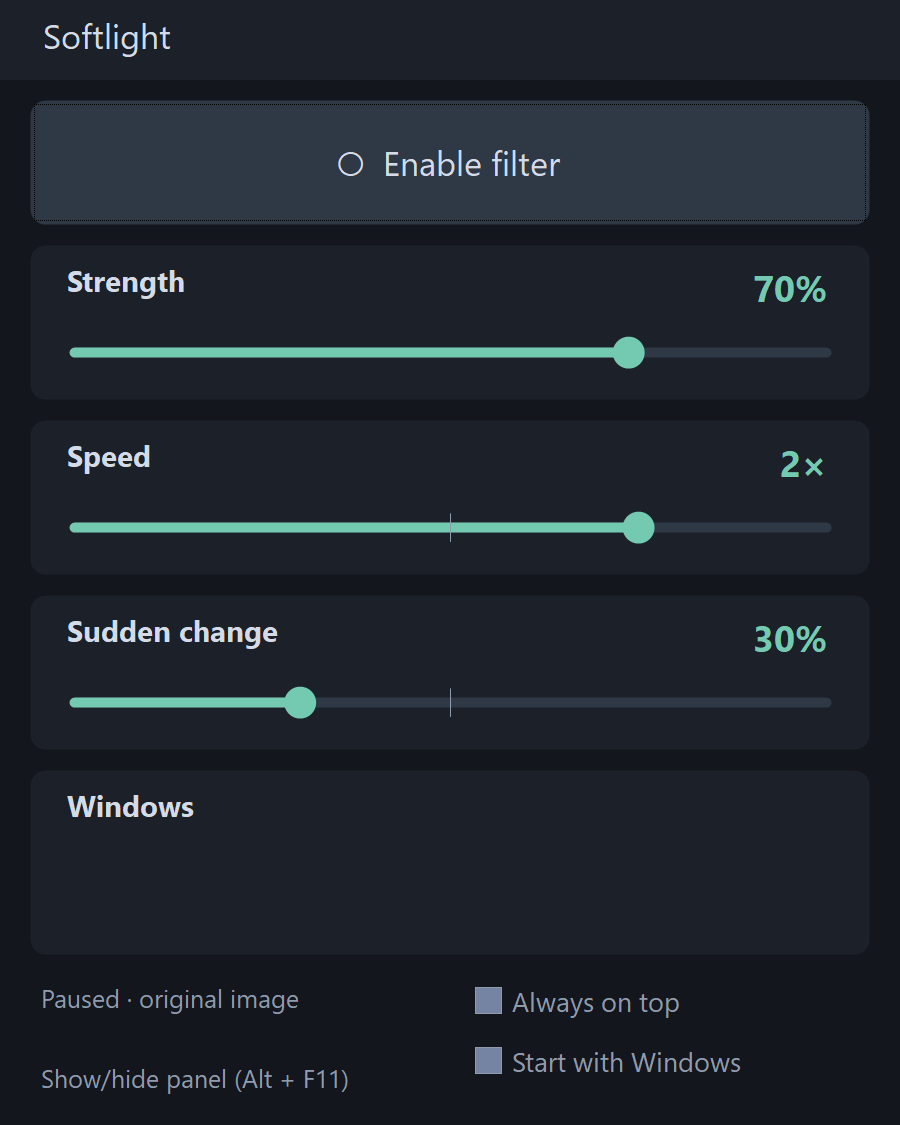
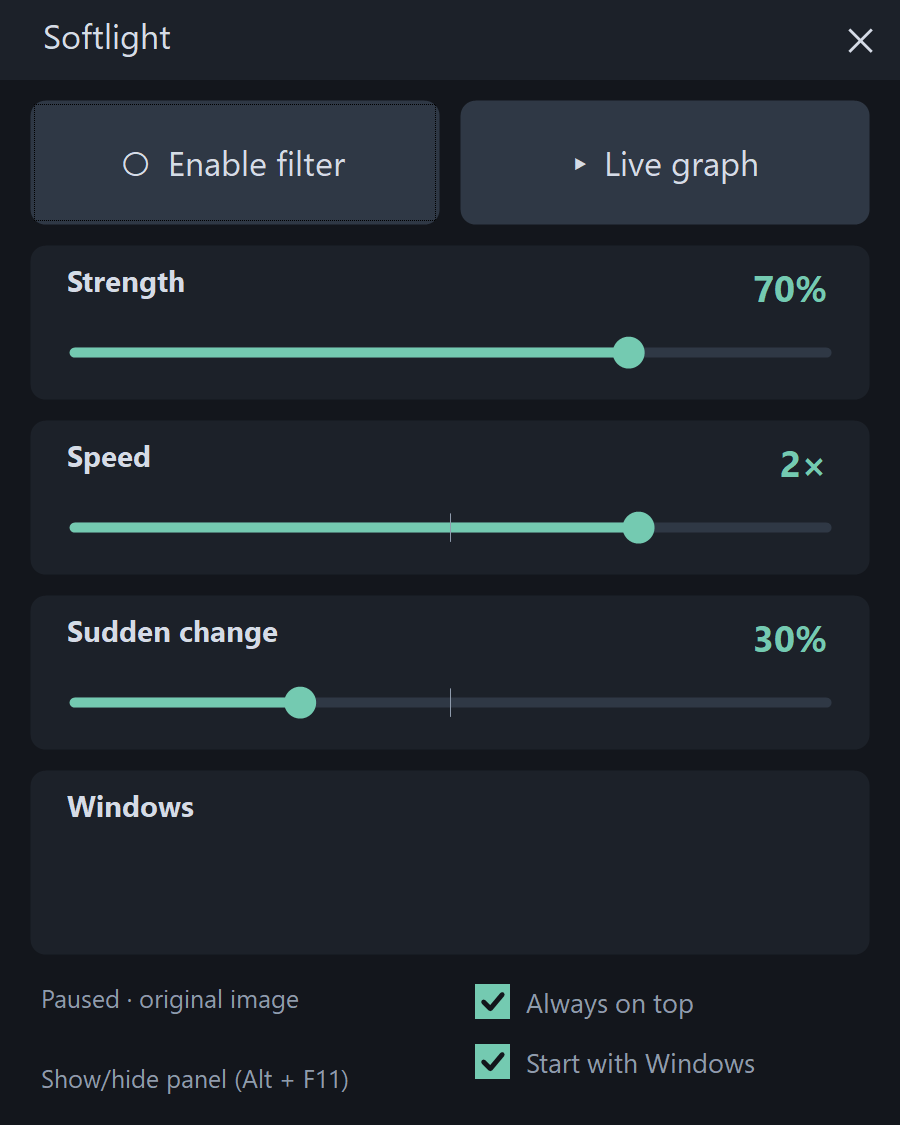
Complete stable panel interface on d0a421f engine baseline (2.2.0)

diff --git a/src/App.cs b/src/App.cs
@@ -32,12 +32,16 @@ namespace NocnyFiltr {
         ContextMenuStrip trayMenu;
         string T(string text) { return Language.Text(text,settings.Language); }
         bool hotkeyRegistered;
+        PanelCloseButton closePanel;
+        bool draggingPanel;
+        internal bool PanelTransitionsDisabled {get;private set;}
         float layoutScale = 1;
         internal MainForm(bool previewOnly) {
             SuspendLayout();
             this.previewOnly = previewOnly;
             settings = previewOnly ? new Settings() : Settings.Load();
             Text = Program.Title; BackColor = Theme.Background; ForeColor = Theme.Text;
+            DoubleBuffered = true;
             Font = Theme.Font(10, FontStyle.Regular);
             AutoScaleMode = AutoScaleMode.None;
             ClientSize = new Size(360, 438); FormBorderStyle = FormBorderStyle.None;
@@ -108,7 +112,11 @@ namespace NocnyFiltr {
         }
         void BuildUi() {
             Panel header=new Panel { Location=Point.Empty,Size=new Size(360,32),BackColor=Theme.Card };Controls.Add(header);
-            LabelAt(header,"Softlight",14,5,332,24,10,Theme.Text,false);
+            Label title=LabelAt(header,"Softlight",14,5,300,24,10,Theme.Text,false);
+            header.Name="PanelHeader";title.Name="PanelTitle";
+            header.MouseDown+=DragPanel;title.MouseDown+=DragPanel;
+            closePanel=new PanelCloseButton {Name="ClosePanel",Location=new Point(328,0),Size=new Size(32,32)};
+            closePanel.Click+=delegate {HidePanel();};header.Controls.Add(closePanel);
             toggle=ButtonAt(this,"",12,40,336,50,delegate {settings.Enabled=!settings.Enabled;Apply(true);});toggle.Name="ToggleFilter";
             statusLabel=LabelAt(this,"",14,380,170,30,7.5f,Theme.Muted,false);
             LabelAt(this,"Show/hide panel (Alt + F11)",14,412,170,18,7.5f,Theme.Muted,false);
@@ -130,10 +138,10 @@ namespace NocnyFiltr {
             Panel windowsCard=new RoundedPanel {Location=new Point(12,308),Size=new Size(336,62),BackColor=Theme.Card};Controls.Add(windowsCard);
             LabelAt(windowsCard,"ROZPOZNANE OKNA",12,6,244,24,8.5f,Theme.Text,true);
             windowList=new WindowList {Location=new Point(8,30),Size=new Size(320,28),BackColor=Theme.Card,ForeColor=Theme.Muted,Font=Theme.Font(9,FontStyle.Regular)};windowsCard.Controls.Add(windowList);
-            CheckBox auto=new CheckBox {Text="Uruchamiaj z Windows",Tag="Uruchamiaj z Windows",Location=new Point(190,402),Size=new Size(158,21),Font=Theme.Font(8,FontStyle.Regular),ForeColor=Theme.Muted,FlatStyle=FlatStyle.Flat};
+            CheckBox auto=new ThemeCheckBox {Name="StartWithWindows",Text="Uruchamiaj z Windows",Tag="Uruchamiaj z Windows",Location=new Point(190,402),Size=new Size(158,21),Font=Theme.Font(8,FontStyle.Regular),ForeColor=Theme.Muted,FlatStyle=FlatStyle.Flat};
             if(!previewOnly) {try {auto.Checked=Settings.AutoStart;}catch {auto.Enabled=false;}}
             auto.CheckedChanged+=delegate {if(!previewOnly) {try {Settings.AutoStart=auto.Checked;}catch(Exception ex) {MessageBox.Show(ex.Message);}}};Controls.Add(auto);
-            CheckBox pin=new CheckBox {Name="AlwaysOnTop",Text="Zawsze na wierzchu",Tag="Zawsze na wierzchu",Location=new Point(190,378),Size=new Size(158,21),Font=Theme.Font(8,FontStyle.Regular),ForeColor=Theme.Muted,FlatStyle=FlatStyle.Flat,Checked=settings.AlwaysOnTop};
+            CheckBox pin=new ThemeCheckBox {Name="AlwaysOnTop",Text="Zawsze na wierzchu",Tag="Zawsze na wierzchu",Location=new Point(190,378),Size=new Size(158,21),Font=Theme.Font(8,FontStyle.Regular),ForeColor=Theme.Muted,FlatStyle=FlatStyle.Flat,Checked=settings.AlwaysOnTop};
             pin.CheckedChanged+=delegate {settings.AlwaysOnTop=pin.Checked;TopMost=pin.Checked;Apply(true);};Controls.Add(pin);
             TopMost=settings.AlwaysOnTop;
             hotkeyLabel=LabelAt(this,"Alt + F11: pokaż / ukryj panel",14,417,332,20,8,Theme.Muted,false);hotkeyLabel.Name="HotkeyStatus";hotkeyLabel.Visible=false;
@@ -187,6 +195,7 @@ namespace NocnyFiltr {
             trayMenu.Close();
         }
         void UpdateLanguage() {
+            closePanel.AccessibleName=T("Zamknij panel");
             Language.Apply(this,settings.Language);
             speedSlider.AccessibleName=T("Szybkość reakcji");suddenSlider.AccessibleName=T("Reakcja na nagłą zmianę");
             strength.AccessibleName=T("Siła automatycznego przyciemniania");
@@ -202,7 +211,7 @@ namespace NocnyFiltr {
         }
         void Apply(bool save) {
             if (!ready) return;
-            hotkeyLabel.Text=settings.AlwaysOnTop?T("Panel przypięty — odznacz, aby ukrywać."):T(hotkeyLabel.Tag is bool && !hotkeyRegistered ? "Skrót jest zajęty — użyj ikony obok zegara.":"Alt + F11: pokaż / ukryj panel");
+            hotkeyLabel.Text=T(hotkeyLabel.Tag is bool && !hotkeyRegistered ? "Skrót jest zajęty — użyj ikony obok zegara.":"Alt + F11: pokaż / ukryj panel");
             speedValue.Text=Math.Pow(4,(settings.Speed-50)/50.0).ToString("0.##")+"×"; suddenValue.Text=settings.SuddenSpeed+"%";
             if(eco!=null) eco.Checked=settings.Fps==30;
             if(frequencyMenu!=null) {frequencyMenu.Text=T("Częstotliwość")+" · "+settings.Frequency+" Hz";foreach(ToolStripMenuItem item in frequencyMenu.DropDownItems) item.Checked=(int)item.Tag==settings.Frequency;}
@@ -242,17 +251,49 @@ namespace NocnyFiltr {
         void UpdatePreviewRect() { if(!previewOnly && ready) Native.NfPreviewRect(0,0,0,0); }
         internal void Pause() { settings.Enabled = false; Apply(true); }
         void AnchorPanel() {
-            Rectangle area = Screen.PrimaryScreen.WorkingArea;
+            bool positioned=settings.PanelX.HasValue && settings.PanelY.HasValue;
+            Point position=positioned?new Point(settings.PanelX.Value,settings.PanelY.Value):Point.Empty;
+            Rectangle area = (positioned?Screen.FromPoint(position):Screen.PrimaryScreen).WorkingArea;
             int margin = Math.Max(4, (int)Math.Round(6 * layoutScale));
             int desiredWidth = (int)Math.Round(360 * layoutScale);
-            int desiredHeight = (int)Math.Round((468+(graphExpanded?180:0)) * layoutScale) + 30;
+            int desiredHeight = (int)Math.Round((438+(graphExpanded?180:0)) * layoutScale) + 30;
             AutoScroll = desiredHeight > area.Height - margin*2 || desiredWidth > area.Width - margin*2;
-            Size = new Size(Math.Min(desiredWidth, area.Width-margin*2), Math.Min(desiredHeight, area.Height-margin*2));
-            Location = new Point(area.Right - Width - margin, area.Bottom - Height - margin);
+            Size nextSize = new Size(Math.Min(desiredWidth, area.Width-margin*2), Math.Min(desiredHeight, area.Height-margin*2));
+            Point nextLocation = positioned
+                ? new Point(Math.Max(area.Left,Math.Min(position.X,area.Right-nextSize.Width)),Math.Max(area.Top,Math.Min(position.Y,area.Bottom-nextSize.Height)))
+                : new Point(area.Right - nextSize.Width - margin, area.Bottom - nextSize.Height - margin);
+            SetBounds(nextLocation.X,nextLocation.Y,nextSize.Width,nextSize.Height);
             UpdatePreviewRect();
         }
         void ShowPanel() { WindowState = FormWindowState.Normal; AnchorPanel(); Show(); AnchorPanel(); Activate(); }
-        void TogglePanel() { if(Visible && !settings.AlwaysOnTop) Hide(); else ShowPanel(); }
+        void HidePanel() { Hide(); if(!previewOnly)Save(); }
+        void TogglePanel() { if(Visible) HidePanel(); else ShowPanel(); }
+        [DllImport("user32.dll")] static extern bool ReleaseCapture();
+        [DllImport("user32.dll")] static extern IntPtr SendMessage(IntPtr hwnd,int msg,IntPtr wParam,IntPtr lParam);
+        [DllImport("user32.dll")] static extern bool RedrawWindow(IntPtr hwnd,IntPtr updateRect,IntPtr updateRegion,uint flags);
+        void DragPanel(object sender,MouseEventArgs e) {
+            if(e.Button!=MouseButtons.Left)return;
+            draggingPanel=true;
+            try {
+                Point cursor=Cursor.Position;
+                IntPtr position=new IntPtr(unchecked((cursor.Y<<16)|(cursor.X&0xffff)));
+                ReleaseCapture();SendMessage(Handle,0x00A1,new IntPtr(2),position);
+            }
+            finally {draggingPanel=false;}
+        }
+        protected override void OnHandleCreated(EventArgs e) {
+            base.OnHandleCreated(e);
+            // DWMWA_TRANSITIONS_FORCEDISABLED: apply before the first Show,
+            // including after handle recreation, without changing system settings.
+            int disabled=1;
+            PanelTransitionsDisabled=Native.DwmSetWindowAttribute(Handle,3,ref disabled,4)==0;
+        }
+        protected override void OnResizeEnd(EventArgs e) {
+            base.OnResizeEnd(e);
+            if(!ready)return;
+            settings.PanelX=Left;settings.PanelY=Top;
+            AnchorPanel();if(!previewOnly)Save();
+        }
         void Exit() { exiting = true; Native.NfEnable(0); Close(); }
         void OnSessionSwitch(object sender, SessionSwitchEventArgs e) {
             if (IsDisposed || !IsHandleCreated) return;
@@ -272,6 +313,10 @@ namespace NocnyFiltr {
         }
         protected override void WndProc(ref Message m) {
             if (m.Msg == 0x02E0 && ready) {
+                if((draggingPanel || settings.PanelX.HasValue) && m.LParam!=IntPtr.Zero) {
+                    NativeRect suggested=(NativeRect)Marshal.PtrToStructure(m.LParam,typeof(NativeRect));
+                    settings.PanelX=suggested.Left;settings.PanelY=suggested.Top;
+                }
                 float next = (m.WParam.ToInt64() & 0xFFFF) / 96f;
                 Scale(new SizeF(next / layoutScale, next / layoutScale)); layoutScale = next;
                 AnchorPanel(); return;
@@ -286,7 +331,7 @@ namespace NocnyFiltr {
         struct NativeRect { public int Left, Top, Right, Bottom; }
         protected override void OnFormClosing(FormClosingEventArgs e) {
             if (!exiting && !previewOnly && e.CloseReason == CloseReason.UserClosing) {
-                e.Cancel = true; if(settings.AlwaysOnTop) ShowPanel(); else Hide(); Save();
+                e.Cancel = true; HidePanel();
             } else {
                 if (!previewOnly) { Native.NfEnable(0); Save(); }
                 if (tray != null) tray.Visible = false;

diff --git a/src/SelfTests.cs b/src/SelfTests.cs
@@ -213,12 +213,16 @@ namespace NocnyFiltr {
         }
         internal static int InterfaceCheck(string path) {
             List<string> report=new List<string>();
+            Point moved=Point.Empty;
             try {
                 Settings.Folder=Path.GetDirectoryName(Path.GetFullPath(path));Settings.FilePath=Path.Combine(Settings.Folder,"language-ui-test.ini");
                 new Settings().Save();
                 using(MainForm ui=new MainForm(false)) {
                     ui.Show();WaitUi(200);
-                    Require(!ContainsText(ui,"×"),"Close button still exists");
+                    Require(ui.PanelTransitionsDisabled,"Panel transitions were not disabled");
+                    Button closePanel=(Button)ui.Controls.Find("ClosePanel",true)[0];
+                    Require(closePanel.AccessibleName=="Close panel","Accessible close button missing");
+                    Require(ui.Controls.Find("AlwaysOnTop",true)[0] is ThemeCheckBox && ui.Controls.Find("StartWithWindows",true)[0] is ThemeCheckBox,"High contrast checkboxes missing");
                     Require(ContainsText(ui,"Strength"),"English default");
                     Label key=(Label)ui.Controls.Find("HotkeyStatus",true)[0];Require((bool)key.Tag,"Alt+F11 registration failed");
                     Rectangle original=ui.Bounds;
@@ -230,19 +234,50 @@ namespace NocnyFiltr {
                     ((Slider)ui.Controls.Find("ChangeSpeed",true)[0]).Value=80;((Slider)ui.Controls.Find("SuddenSpeed",true)[0]).Value=20;WaitUi(650);Require(Settings.Read(Settings.FilePath).Speed==80 && Settings.Read(Settings.FilePath).SuddenSpeed==20,"Speed sliders persistence");
                     CheckBox pin=(CheckBox)ui.Controls.Find("AlwaysOnTop",true)[0];
                     pin.Checked=true;WaitUi(650);Require(ui.TopMost&&Settings.Read(Settings.FilePath).AlwaysOnTop,"Pinned setting not applied/saved");
-                    Native.PostMessage(ui.Handle,0x0312,new IntPtr(1),IntPtr.Zero);WaitUi(150);Require(ui.Visible,"Pinned panel hidden by shortcut");
+                    Native.PostMessage(ui.Handle,0x0312,new IntPtr(1),IntPtr.Zero);WaitUi(150);Require(!ui.Visible && ui.TopMost,"Pinned shortcut must hide without unpinning");
+                    Native.PostMessage(ui.Handle,0x0312,new IntPtr(1),IntPtr.Zero);WaitUi(150);Require(ui.Visible && ui.TopMost,"Pinned shortcut must reopen");
+                    ((Button)ui.Controls.Find("ToggleFilter",true)[0]).PerformClick();WaitUi(1800);
+                    Native.NfGetStatus(out status);Require(status.State==2,"Active filter was not ready for the panel close test");
+                    Native.PostMessage(ui.Handle,0x0312,new IntPtr(1),IntPtr.Zero);WaitUi(150);
+                    Native.NfGetStatus(out status);Require(!ui.Visible && status.State==2,"Pinned shortcut stopped filtering or failed to hide");
+                    Native.PostMessage(ui.Handle,0x0312,new IntPtr(1),IntPtr.Zero);WaitUi(150);
+                    closePanel.PerformClick();WaitUi(150);
+                    Require(!ui.Visible && ui.TopMost && Settings.Read(Settings.FilePath).AlwaysOnTop,"Close button must hide a pinned panel without clearing its setting");
+                    Native.NfGetStatus(out status);Require(status.State==2,"Panel close stopped the active filter");
+                    Native.PostMessage(ui.Handle,0x0312,new IntPtr(1),IntPtr.Zero);WaitUi(150);Require(ui.Visible && ui.TopMost,"Pinned panel did not reopen");
+                    ui.Close();WaitUi(100);Require(!ui.Visible && !ui.IsDisposed,"Standard close must hide the panel, not exit");
+                    Native.PostMessage(ui.Handle,Program.ShowMessage,IntPtr.Zero,IntPtr.Zero);WaitUi(150);
                     pin.Checked=false;WaitUi(650);Require(!ui.TopMost&&!Settings.Read(Settings.FilePath).AlwaysOnTop,"Unpin not applied/saved");
                     ui.SetLanguage("pl");WaitUi(650);Require(ContainsText(ui,"Siła automatycznego przyciemniania"),"Polish translation");Require(Settings.Read(Settings.FilePath).Language=="pl","Polish persistence");
                     ui.SetLanguage("en");WaitUi(650);Require(ContainsText(ui,"Strength"),"English translation");Require(Settings.Read(Settings.FilePath).Language=="en","English persistence");
+                    moved=new Point(Screen.PrimaryScreen.WorkingArea.Left+40,Screen.PrimaryScreen.WorkingArea.Top+40);
+                    ui.Location=moved;Native.PostMessage(ui.Handle,0x0232,IntPtr.Zero,IntPtr.Zero);WaitUi(150);
+                    Require(Settings.Read(Settings.FilePath).PanelX==moved.X && Settings.Read(Settings.FilePath).PanelY==moved.Y,"Moved panel location not saved");
+                    Native.PostMessage(ui.Handle,0x0312,new IntPtr(1),IntPtr.Zero);WaitUi(150);
+                    Native.PostMessage(ui.Handle,0x0312,new IntPtr(1),IntPtr.Zero);WaitUi(150);Require(ui.Location==moved,"Reopening moved panel reset position");
+                    ui.ToggleGraph();ui.ToggleGraph();Require(ui.Location==moved,"Graph toggle reset panel position");
+                    Rectangle area=Screen.PrimaryScreen.WorkingArea;
+                    ui.Location=new Point(area.Right-ui.Width-15,area.Bottom-ui.Height-15);
+                    Native.PostMessage(ui.Handle,0x0232,IntPtr.Zero,IntPtr.Zero);WaitUi(150);
+                    Rectangle collapsed=ui.Bounds;var layoutFrames=new List<Rectangle>();
+                    EventHandler recordBounds=delegate {layoutFrames.Add(ui.Bounds);};
+                    ui.LocationChanged+=recordBounds;ui.SizeChanged+=recordBounds;
+                    ui.ToggleGraph();Rectangle expanded=ui.Bounds;
+                    ui.LocationChanged-=recordBounds;ui.SizeChanged-=recordBounds;
+                    Require(ui.Visible && expanded.Height>collapsed.Height && area.Contains(expanded),"Expanded graph is hidden or outside the screen");
+                    foreach(Rectangle frame in layoutFrames)Require(frame==expanded,"Graph expansion exposed an intermediate window position/size");
+                    ui.ToggleGraph();Require(ui.Visible && ui.Bounds==collapsed,"Graph collapse did not restore window bounds");
+                    ui.Location=moved;Native.PostMessage(ui.Handle,0x0232,IntPtr.Zero,IntPtr.Zero);WaitUi(150);
                     Native.PostMessage(ui.Handle,Program.ExitMessage,IntPtr.Zero,IntPtr.Zero);WaitUi(100);
                 }
                 using(MainForm reopened=new MainForm(false)) {
                     reopened.Show();WaitUi(200);
+                    Require(reopened.Location==moved,"Restart lost panel location");
                     Require(((Slider)reopened.Controls.Find("ChangeSpeed",true)[0]).Value==80 && ((Slider)reopened.Controls.Find("SuddenSpeed",true)[0]).Value==20,"Reopened panel lost custom slider values");
                     Require(Settings.Read(Settings.FilePath).Strength==70,"Reopened panel changed strength");
                     Native.PostMessage(reopened.Handle,Program.ExitMessage,IntPtr.Zero,IntPtr.Zero);WaitUi(100);
                 }
-                report.Add("PASS: no close button; English default; Alt+F11 registered; hotkey handler hides/shows without changing filter; anchor retained; pin/unpin applies TopMost and persists; pinned hotkey keeps panel visible; English/Polish switch and persistence; closed and reopened panel restores custom slider values.");
+                report.Add("PASS: accessible close button hides even a pinned panel, preserves pin/filter state and allows reopening; standard close hides instead of exiting; high-contrast checkboxes; English default; Alt+F11 registered; anchor retained; pin, language and slider preferences survive reopening.");
                 File.Delete(Settings.FilePath);File.WriteAllLines(path,report,Encoding.UTF8);return 0;
             } catch(Exception e) {report.Add("FAIL: "+e);File.WriteAllLines(path,report,Encoding.UTF8);return 1;}
             finally {Native.NfEnable(0);Native.NfStop();}

diff --git a/src/ThemeControls.cs b/src/ThemeControls.cs
@@ -53,6 +53,52 @@ namespace NocnyFiltr {
             if (Focused) ControlPaint.DrawFocusRectangle(e.Graphics, Rectangle.Inflate(ClientRectangle, -4, -4));
         }
     }
+    internal sealed class PanelCloseButton : Button {
+        internal PanelCloseButton() {
+            FlatStyle=FlatStyle.Flat;FlatAppearance.BorderSize=0;
+            Cursor=Cursors.Hand;Text="×";TabStop=false;
+            SetStyle(ControlStyles.UserPaint|ControlStyles.AllPaintingInWmPaint|ControlStyles.OptimizedDoubleBuffer,true);
+        }
+        protected override void OnPaint(PaintEventArgs e) {
+            bool hover=ClientRectangle.Contains(PointToClient(Cursor.Position));
+            e.Graphics.Clear(hover?Color.FromArgb(190,45,55):Theme.Card);
+            e.Graphics.SmoothingMode=SmoothingMode.AntiAlias;
+            float radius=Width*.14f;
+            using(var pen=new Pen(Theme.Text,Math.Max(1,Width/28f))) {
+                e.Graphics.DrawLine(pen,Width/2f-radius,Height/2f-radius,Width/2f+radius,Height/2f+radius);
+                e.Graphics.DrawLine(pen,Width/2f+radius,Height/2f-radius,Width/2f-radius,Height/2f+radius);
+            }
+            if(Focused && ShowFocusCues)ControlPaint.DrawFocusRectangle(e.Graphics,Rectangle.Inflate(ClientRectangle,-4,-4));
+        }
+    }
+    // Retain native CheckBox input and accessibility; draw a high-contrast glyph.
+    internal sealed class ThemeCheckBox : CheckBox {
+        internal ThemeCheckBox() {
+            SetStyle(ControlStyles.UserPaint|ControlStyles.AllPaintingInWmPaint|ControlStyles.OptimizedDoubleBuffer|ControlStyles.ResizeRedraw,true);
+            Cursor=Cursors.Hand;
+        }
+        protected override void OnPaint(PaintEventArgs e) {
+            e.Graphics.Clear(BackColor);
+            float scale=Height/21f;int box=Math.Max(12,(int)Math.Round(13*scale));
+            var rect=new Rectangle(1,(Height-box)/2,box,box);
+            using(var fill=new SolidBrush(Checked?(Enabled?Theme.Accent:Theme.Border):Theme.Background))e.Graphics.FillRectangle(fill,rect);
+            using(var edge=new Pen(Checked?Theme.Accent:Theme.Muted,Math.Max(1,scale)))e.Graphics.DrawRectangle(edge,rect);
+            if(Checked) {
+                e.Graphics.SmoothingMode=SmoothingMode.AntiAlias;
+                using(var mark=new Pen(Enabled?Theme.Background:Theme.Muted,Math.Max(2,2*scale))) {
+                    mark.StartCap=mark.EndCap=LineCap.Round;mark.LineJoin=LineJoin.Round;
+                    e.Graphics.DrawLines(mark,new[]{new PointF(rect.Left+box*.22f,rect.Top+box*.51f),new PointF(rect.Left+box*.43f,rect.Top+box*.72f),new PointF(rect.Left+box*.80f,rect.Top+box*.28f)});
+                }
+            }
+            var textRect=new Rectangle(box+(int)(5*scale),0,Width-box-(int)(5*scale),Height);
+            TextRenderer.DrawText(e.Graphics,Text,Font,textRect,Enabled?ForeColor:Theme.Muted,TextFormatFlags.Left|TextFormatFlags.VerticalCenter|TextFormatFlags.EndEllipsis);
+            if(Focused && ShowFocusCues)ControlPaint.DrawFocusRectangle(e.Graphics,textRect,Theme.Text,BackColor);
+        }
+        protected override void OnCheckedChanged(EventArgs e){base.OnCheckedChanged(e);Invalidate();}
+        protected override void OnEnabledChanged(EventArgs e){base.OnEnabledChanged(e);Invalidate();}
+        protected override void OnGotFocus(EventArgs e){base.OnGotFocus(e);Invalidate();}
+        protected override void OnLostFocus(EventArgs e){base.OnLostFocus(e);Invalidate();}
+    }
     internal sealed class Slider : Control {
         int value; internal int Maximum=95; internal bool CenterMark=false;
         internal event EventHandler ValueChanged;

diff --git a/src/MainForm.Graph.cs b/src/MainForm.Graph.cs
@@ -5,11 +5,11 @@ using System.Windows.Forms;
 namespace NocnyFiltr {
     internal sealed partial class MainForm {
         void BuildGraphUi(float dpiScale) {
-            graphToggle=ButtonAt(this,"▸ Live graph",12,34,336,24,delegate {ToggleGraph();});
-            graphToggle.SetBounds((int)(12*dpiScale),(int)(34*dpiScale),(int)(336*dpiScale),(int)(24*dpiScale));
-            foreach(Control control in Controls) if(control!=graphToggle && control.Top>32*dpiScale)control.Top+=(int)(30*dpiScale);
+            toggle.SetBounds((int)(12*dpiScale),(int)(40*dpiScale),(int)(164*dpiScale),(int)(50*dpiScale));
+            graphToggle=ButtonAt(this,"▸ Live graph",184,40,164,50,delegate {ToggleGraph();});
+            graphToggle.SetBounds((int)(184*dpiScale),(int)(40*dpiScale),(int)(164*dpiScale),(int)(50*dpiScale));
             graphPanel=new RoundedPanel {BackColor=Theme.Card,Visible=false};
-            graphPanel.SetBounds((int)(12*dpiScale),(int)(62*dpiScale),(int)(336*dpiScale),(int)(174*dpiScale));Controls.Add(graphPanel);
+            graphPanel.SetBounds((int)(12*dpiScale),(int)(40*dpiScale),(int)(336*dpiScale),(int)(174*dpiScale));Controls.Add(graphPanel);
             liveGraph=new LiveGraph();liveGraph.SetBounds(0,(int)(28*dpiScale),graphPanel.Width,(int)(142*dpiScale));graphPanel.Controls.Add(liveGraph);
             var target=new DarkButton {Text="Auto",Font=Theme.Font(8,FontStyle.Regular)};
             target.SetBounds((int)(8*dpiScale),(int)(3*dpiScale),(int)(85*dpiScale),(int)(24*dpiScale));
@@ -23,10 +23,23 @@ namespace NocnyFiltr {
             graphTimer.Start();
         }
         internal void ToggleGraph() {
-            graphExpanded=!graphExpanded;int shift=(int)(180*layoutScale)*(graphExpanded?1:-1);
-            foreach(Control control in Controls) if(control!=graphPanel && control!=graphToggle && control.Top>graphToggle.Bottom)control.Top+=shift;
-            graphPanel.Visible=graphExpanded;graphToggle.Text=graphExpanded?"▾ Live graph":"▸ Live graph";
-            liveGraph.Clear();AnchorPanel();
+            // Present the final layout once, instead of exposing the intermediate
+            // child positions, resized window and subsequent screen clamping.
+            bool redraw=IsHandleCreated && Visible;
+            if(redraw)SendMessage(Handle,0x000B,IntPtr.Zero,IntPtr.Zero);
+            SuspendLayout();
+            try {
+                graphExpanded=!graphExpanded;int shift=(int)(180*layoutScale)*(graphExpanded?1:-1);
+                foreach(Control control in Controls) if(control!=graphPanel && control.Top>32*layoutScale)control.Top+=shift;
+                graphPanel.Visible=graphExpanded;graphToggle.Text=graphExpanded?"▾ Live graph":"▸ Live graph";
+                liveGraph.Clear();AnchorPanel();
+            } finally {
+                ResumeLayout(true);
+                if(redraw) {
+                    SendMessage(Handle,0x000B,new IntPtr(1),IntPtr.Zero);
+                    RedrawWindow(Handle,IntPtr.Zero,IntPtr.Zero,0x0585);
+                }
+            }
         }
     }
 }

diff --git a/src/Settings.cs b/src/Settings.cs
@@ -10,6 +10,7 @@ namespace NocnyFiltr {
         public bool Enabled = false;
         public bool AlwaysOnTop = false; public int Frequency = 30; public int Speed = 75, SuddenSpeed = 30;
         public string Language = "en";
+        public int? PanelX,PanelY;
         internal bool HdrPreview = false;
         internal static string Folder = Path.Combine(Environment.GetFolderPath(Environment.SpecialFolder.LocalApplicationData), "NocnyFiltrWindows");
         internal static string FilePath = Path.Combine(Folder, "settings.ini");
@@ -31,6 +32,8 @@ namespace NocnyFiltr {
                     if (p[0] == "fps") s.Fps = n <= 30 ? 30 : 120;
                     if (p[0] == "alwaysOnTop") s.AlwaysOnTop = n == 1;
                     if (p[0] == "enabled") s.Enabled = n == 1;
+                    if (p[0] == "panelX") s.PanelX = n;
+                    if (p[0] == "panelY") s.PanelY = n;
                 }
             } catch (Exception e) { LoadWarning = "Nie udało się odczytać ustawień: " + e.Message; }
             return s;
@@ -41,6 +44,7 @@ namespace NocnyFiltr {
             string tmp = path + ".tmp";
             string text = string.Format(CultureInfo.InvariantCulture,
                 "threshold={0}\nstrength={1}\ncurve={2}\nfps={3}\nenabled={4}\nlanguage={5}\nalwaysOnTop={6}\nanalysisHz={7}\nspeed={8}\nsuddenSpeed={9}\n", Threshold, Strength, Curve, Fps, Enabled ? 1 : 0, Language, AlwaysOnTop ? 1 : 0, Frequency, Speed, SuddenSpeed);
+            if(PanelX.HasValue && PanelY.HasValue)text+=string.Format(CultureInfo.InvariantCulture,"panelX={0}\npanelY={1}\n",PanelX.Value,PanelY.Value);
             File.WriteAllText(tmp, text, new UTF8Encoding(false));
             if (File.Exists(path)) File.Replace(tmp, path, null); else File.Move(tmp, path);
         }

diff --git a/src/Program.cs b/src/Program.cs
@@ -27,6 +27,10 @@ namespace NocnyFiltr {
             if (args.Length > 0 && args[0] == "--render-ui") {
                 using (MainForm f = new MainForm(true)) {
                     f.Show(); Application.DoEvents();
+                    if(Array.IndexOf(args,"--checked")>=0) {
+                        ((CheckBox)f.Controls.Find("AlwaysOnTop",true)[0]).Checked=true;
+                        ((CheckBox)f.Controls.Find("StartWithWindows",true)[0]).Checked=true;
+                    }
                     if(Array.IndexOf(args,"--graph")>=0) {f.ToggleGraph();Application.DoEvents();}
                     using (Bitmap b = new Bitmap(f.Width, f.Height)) { f.DrawToBitmap(b, new Rectangle(Point.Empty, f.Size)); b.Save(args[1], ImageFormat.Png); }
                 }

diff --git a/src/Language.cs b/src/Language.cs
@@ -5,6 +5,7 @@ using System.Windows.Forms;
 namespace NocnyFiltr {
     internal static class Language {
         static readonly Dictionary<string,string> English = new Dictionary<string,string> {
+            {"Zamknij panel","Close panel"},
             {"Panel przypięty — odznacz, aby ukrywać.","Panel pinned — uncheck to allow hiding."},
             {"Standardowo · 4 Hz","Standard · 4 Hz"}, {"Na bieżąco · 30 Hz","Real-time · 30 Hz"}, {"Częstotliwość","Frequency"}, {"Szybkość reakcji","Speed"}, {"Reakcja na nagłą zmianę","Sudden change"}, {"Zawsze na wierzchu","Always on top"},
             {"Nocny Filtr · Okna","Softlight · Windows"},

diff --git a/src/AssemblyInfo.cs b/src/AssemblyInfo.cs
@@ -3,6 +3,6 @@ using System.Runtime.InteropServices;
 [assembly: AssemblyTitle("Softlight")]
 [assembly: AssemblyDescription("Adaptive whole-window dimming for Windows SDR and HDR desktops")]
 [assembly: AssemblyProduct("Softlight")]
-[assembly: AssemblyVersion("2.1.0.0")]
-[assembly: AssemblyFileVersion("2.1.0.0")]
+[assembly: AssemblyVersion("2.2.0.0")]
+[assembly: AssemblyFileVersion("2.2.0.0")]
 [assembly: ComVisible(false)]

diff --git a/README.md b/README.md
@@ -15,9 +15,15 @@ Get the installer or portable ZIP from [Releases](https://github.com/Artllex/Sof
 
 Windows 10 version 2004 or newer, or Windows 11, x64. Uses .NET Framework 4.8 and Direct3D 11. The application is not code-signed; Windows may display a reputation warning.
 
-## Firefox integration (2.1.0)
+## Firefox integration
 
 The installer and portable package include the Firefox extension and native host. Follow [Firefox setup](FIREFOX.md) to load the unsigned extension temporarily. It must be loaded again after restarting Firefox.
+
+## Version 2.2.0
+
+This release completes the panel interface: draggable and remembered position, high-contrast checkboxes, an always-available close button, and Alt + F11 toggling even when pinned. Active and Live graph share a row; the graph opens above them. Panel transitions are disabled and layout changes are applied together.
+
+Image processing uses the selected `d0a421f` baseline. Brief bright flashes and delayed or duplicate graph markers during context changes remain known limitations; this release does not claim to fix them.
 
 ## Features
 
@@ -38,7 +44,7 @@ The installer and portable package include the Firefox extension and native host
 
 Click **Enable filter** to start. **Alt + F11** or a left click on the tray icon shows or hides the panel. Right-click the tray icon for frequency, power-saving, language and exit options.
 
-**Always on top** keeps the panel visible and prevents hiding it with the shortcut or tray icon until unpinned. **Start with Windows** launches it in the tray, unless pinned.
+**Always on top** keeps the panel above other windows. **Alt + F11**, the tray icon and **×** can hide it even when pinned; filtering continues and the pin setting is retained. Drag the header to move the panel. Its position is remembered when reopening and restarting, and kept within an available screen. **Start with Windows** launches it in the tray, unless pinned.
 
 Settings live in `%LOCALAPPDATA%\NocnyFiltrWindows\settings.ini`, retaining compatibility with development builds. Exiting saves settings and removes the overlays. Uninstalling preserves settings.
 

diff --git a/docs/ARCHITECTURE.md b/docs/ARCHITECTURE.md
@@ -1,5 +1,11 @@
 # Architecture and refactoring checks
 
+## Selected baseline
+
+This branch uses `d0a421f` for all capture, analysis, dimming, rendering, graph timing and Firefox communication. Only the later panel close button, high-contrast footer checkboxes, their UI tests and checked-state preview have been brought forward. The close button, shortcut and tray toggle hide even a pinned panel while retaining filtering and the pin preference. Native caption dragging moves the panel; saved coordinates survive hide/show and restart, and are clamped to the working area when the display layout changes. Panel transitions are disabled per window before it is shown. Graph layout changes suspend redraw and apply position and size in one operation; Active and Live graph share a row below the expanded graph. The original baseline's flash and window-transition behavior is retained.
+
+Validation: the processing and Firefox sources match `d0a421f`; numerical tests and the live interface check pass. The checked-state preview was inspected at 250% scaling. Earlier comparison builds and the later engine changes remain in separate workspaces.
+
 ## Responsibilities
 
 - `Program.cs`: startup, single instance routing and diagnostic command dispatch.

diff --git a/FIREFOX.md b/FIREFOX.md
@@ -1,4 +1,4 @@
-# Firefox integration — Softlight 2.1.0
+# Firefox integration — Softlight 2.2.0
 
 Stable application baseline tested on Firefox and YouTube. The companion extension is unsigned and currently loaded temporarily.
 
